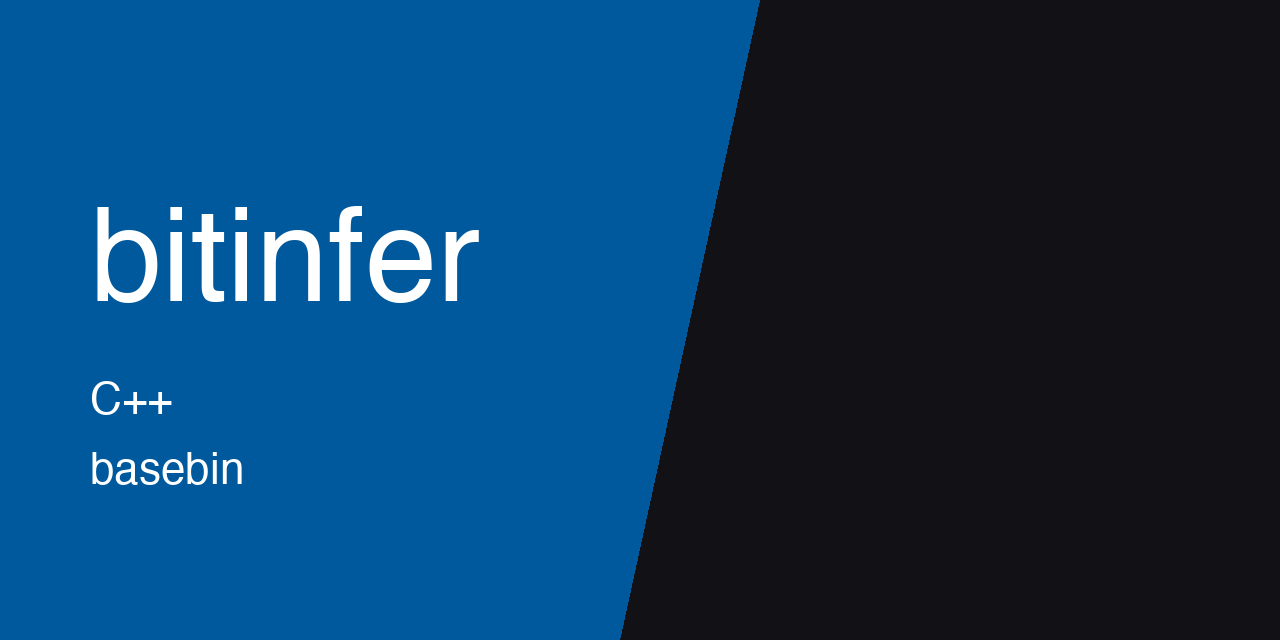
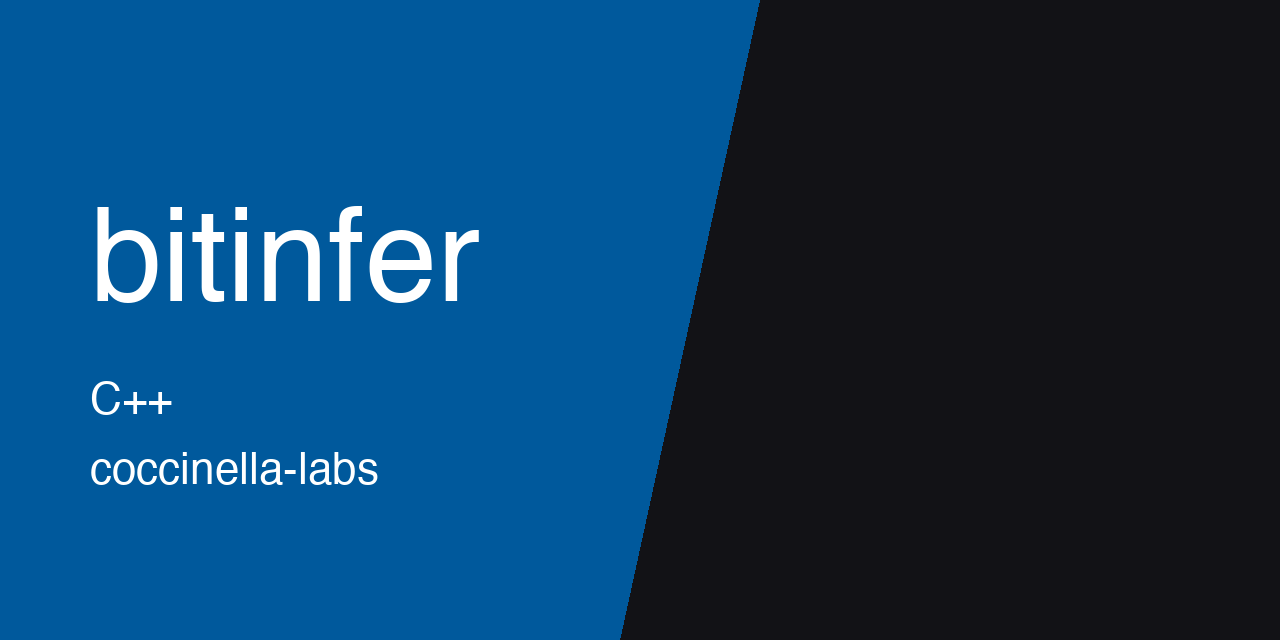
[docs] move thumbnail to coccinella-labs

Changed region(s): [[0.0625, 0.7188, 0.3125, 0.7812]]

diff --git a/README.md b/README.md
@@ -1,5 +1,5 @@
 <p align="center">
-  <img src="https://raw.githubusercontent.com/basebin/bitinfer/main/.github/assets/thumbnail.png" alt="bitinfer" width="100%">
+  <img src="https://raw.githubusercontent.com/Coccinella-Labs/bitinfer/main/.github/assets/thumbnail.png" alt="bitinfer" width="100%">
 </p>
 
 # BitInfer
@@ -40,7 +40,7 @@ After building and benchmarking, we had something that consistently beats vanill
 
 ```bash
 # Clone and run
-git clone https://github.com/harpertoken/bitinfer
+git clone https://github.com/Coccinella-Labs/bitinfer
 cd bitinfer
 pip install -r requirements.txt
 
@@ -82,7 +82,7 @@ BitInfer delivers up to 1.65x faster inference speeds while reducing memory usag
 ## Installation
 
 ```bash
-git clone https://github.com/harpertoken/bitinfer
+git clone https://github.com/Coccinella-Labs/bitinfer
 cd bitinfer
 pip install -r requirements.txt
 ```
